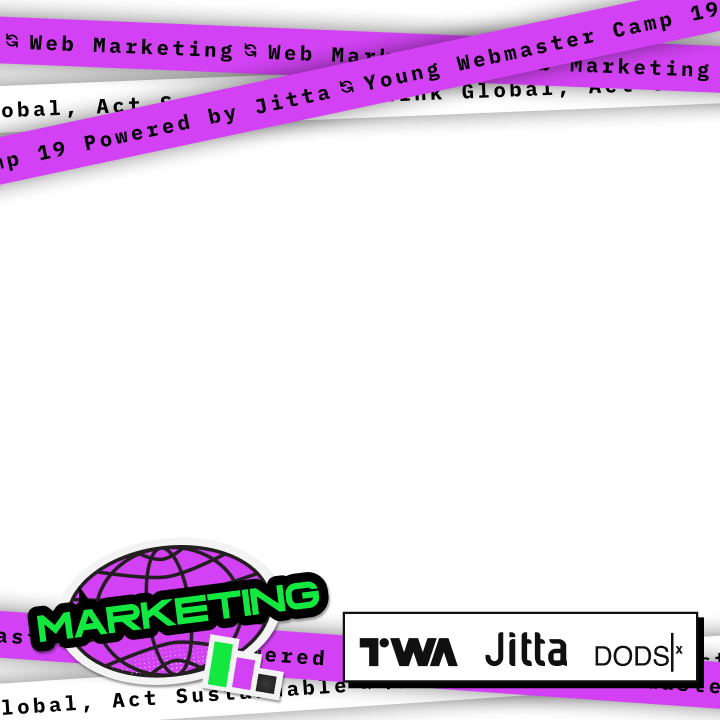
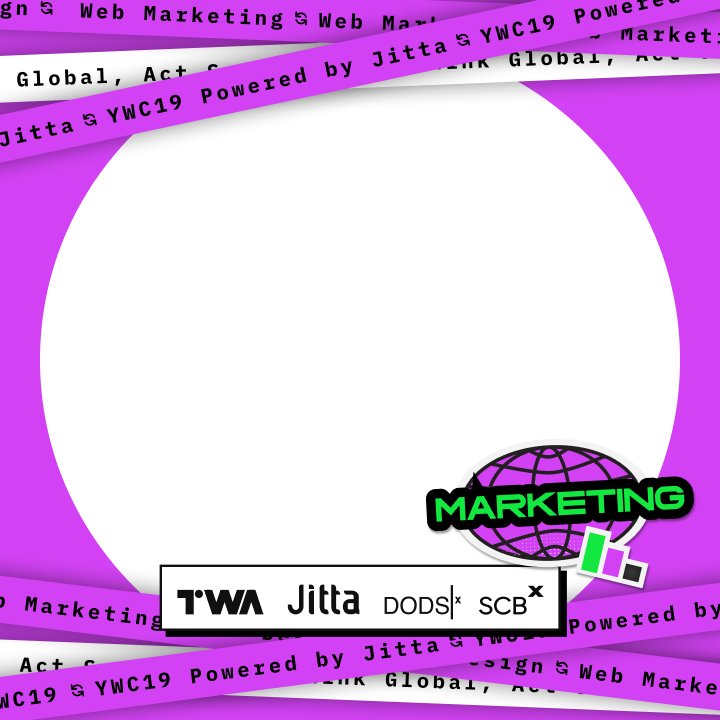
add new frame and add preview image

diff --git a/src/routes/+page.svelte b/src/routes/+page.svelte
@@ -1,11 +1,13 @@
 <script lang="ts">
 	import Cropper from 'svelte-easy-crop';
-	import getCroppedImg, { addFrame } from '../utils/crop';
+	import getCroppedImg, { addFrame, createImage } from '../utils/crop';
 	import Button from '../components/Button.svelte';
 	import InputFile from '../components/InputFile.svelte';
 	import Link from '../components/Link.svelte';
 	import BranchOption from '../components/BranchOption.svelte';
 	import { Branch } from '$lib/constants/branch';
+	import PreviewSrc from '$lib/assets/preview.png';
+	import { onMount } from 'svelte';
 
 	let image = '';
 	let croppedImage: string | null = null;
@@ -35,7 +37,10 @@
 		pixelCrop = e.detail.pixels;
 	}
 
-	async function cropImage() {
+	async function cropImage(
+		image: string,
+		pixelCrop: { x: number; y: number; width: number; height: number }
+	) {
 		const newImage = await getCroppedImg(image, pixelCrop);
 		if (newImage) {
 			croppedImage = newImage;
@@ -56,6 +61,19 @@
 			croppedImageWithFrame = await frameImage(croppedImage, branch);
 		}
 	}
+
+	// Initialize the preview image
+	onMount(async () => {
+		const previewImage = await createImage(PreviewSrc);
+		const size = 600;
+		await cropImage(PreviewSrc, {
+			x: (previewImage.width - size) / 2,
+			y: (previewImage.height - size) / 2,
+			width: size,
+			height: size
+		});
+		image = PreviewSrc;
+	});
 </script>
 
 <main class="flex flex-col items-center justify-center w-full h-full gap-8 p-4 mt-10">
@@ -68,7 +86,7 @@
 	{#if image && !croppedImage}
 		<Cropper {image} bind:crop bind:zoom on:cropcomplete={previewCrop} aspect={1} />
 		<div class="absolute bottom-4 z-50">
-			<Button on:click={cropImage}>Crop Image</Button>
+			<Button on:click={() => cropImage(image, pixelCrop)}>Crop Image</Button>
 		</div>
 	{/if}
 
@@ -82,7 +100,7 @@
 	{#if croppedImageWithFrame}
 		<div class="flex flex-col gap-3 items-center">
 			<h1 class="font-bold text-4xl text-center">Result</h1>
-			<div class="border-2 border-slate-500">
+			<div>
 				<img src={croppedImageWithFrame} alt="Cropped profile" width="400" height="400" />
 			</div>
 			<Link href={croppedImageWithFrame} download="profile.png" class="w-full text-center"

diff --git a/src/utils/crop.ts b/src/utils/crop.ts
@@ -3,10 +3,12 @@ import CTSrc from '../lib/assets/CT.png';
 import DSScr from '../lib/assets/DS.png';
 import MKSrc from '../lib/assets/MK.png';
 import PGSrc from '../lib/assets/PG.png';
+import BGSrc from '../lib/assets/BG.png';
 import resizeImageData from 'resize-image-data';
 
 const DEFAULT_WIDTH = 720;
 const DEFAULT_HEIGHT = 720;
+const OFFSET = (720 - 640) / 2;
 
 async function selectImageFromBranch(branch: Branch) {
 	switch (branch) {
@@ -134,7 +136,7 @@ export default async function getCroppedImg(
 	ctx.drawImage(resizedImage, 0, 0, desiredSize.width, desiredSize.height);
 
 	// As Base64 string
-	return canvas.toDataURL('image/jpeg', 1.0);
+	return canvas.toDataURL('image/png', 1.0);
 }
 
 export async function addFrame(
@@ -142,9 +144,14 @@ export async function addFrame(
 	branch: Branch,
 	desiredSize = { width: DEFAULT_WIDTH, height: DEFAULT_HEIGHT }
 ) {
-	const image = await createImage(imageSrc);
-	// Prepare bedge
-	const badge = await selectImageFromBranch(branch);
+	// Prepare image, bedge, and background
+	const [image, badge, background] = await Promise.all([
+		createImage(imageSrc),
+		selectImageFromBranch(branch),
+		createImage(BGSrc)
+	]);
+
+	// Preoare background
 	const canvas = document.createElement('canvas');
 	const ctx = canvas.getContext('2d');
 
@@ -154,9 +161,16 @@ export async function addFrame(
 
 	canvas.width = desiredSize.width;
 	canvas.height = desiredSize.height;
-	ctx.drawImage(image, 0, 0, desiredSize.width, desiredSize.height);
+	ctx.drawImage(background, 0, 0, desiredSize.width, desiredSize.height);
+	ctx.drawImage(
+		image,
+		OFFSET,
+		OFFSET,
+		desiredSize.width - 2 * OFFSET,
+		desiredSize.height - 2 * OFFSET
+	);
 	ctx.drawImage(badge, 0, 0, desiredSize.width, desiredSize.height);
 
 	// As Base64 string
-	return canvas.toDataURL('image/jpeg', 1.0);
+	return canvas.toDataURL('image/png', 1.0);
 }

diff --git a/src/components/BranchOption.svelte b/src/components/BranchOption.svelte
@@ -23,8 +23,8 @@
 	)}
 	bind:this={select}
 >
+	<option value="PG">Programming</option>
 	<option value="MK">Marketing</option>
 	<option value="CT">Content</option>
-	<option value="PG">Programming</option>
 	<option value="DS">Design</option>
 </select>
